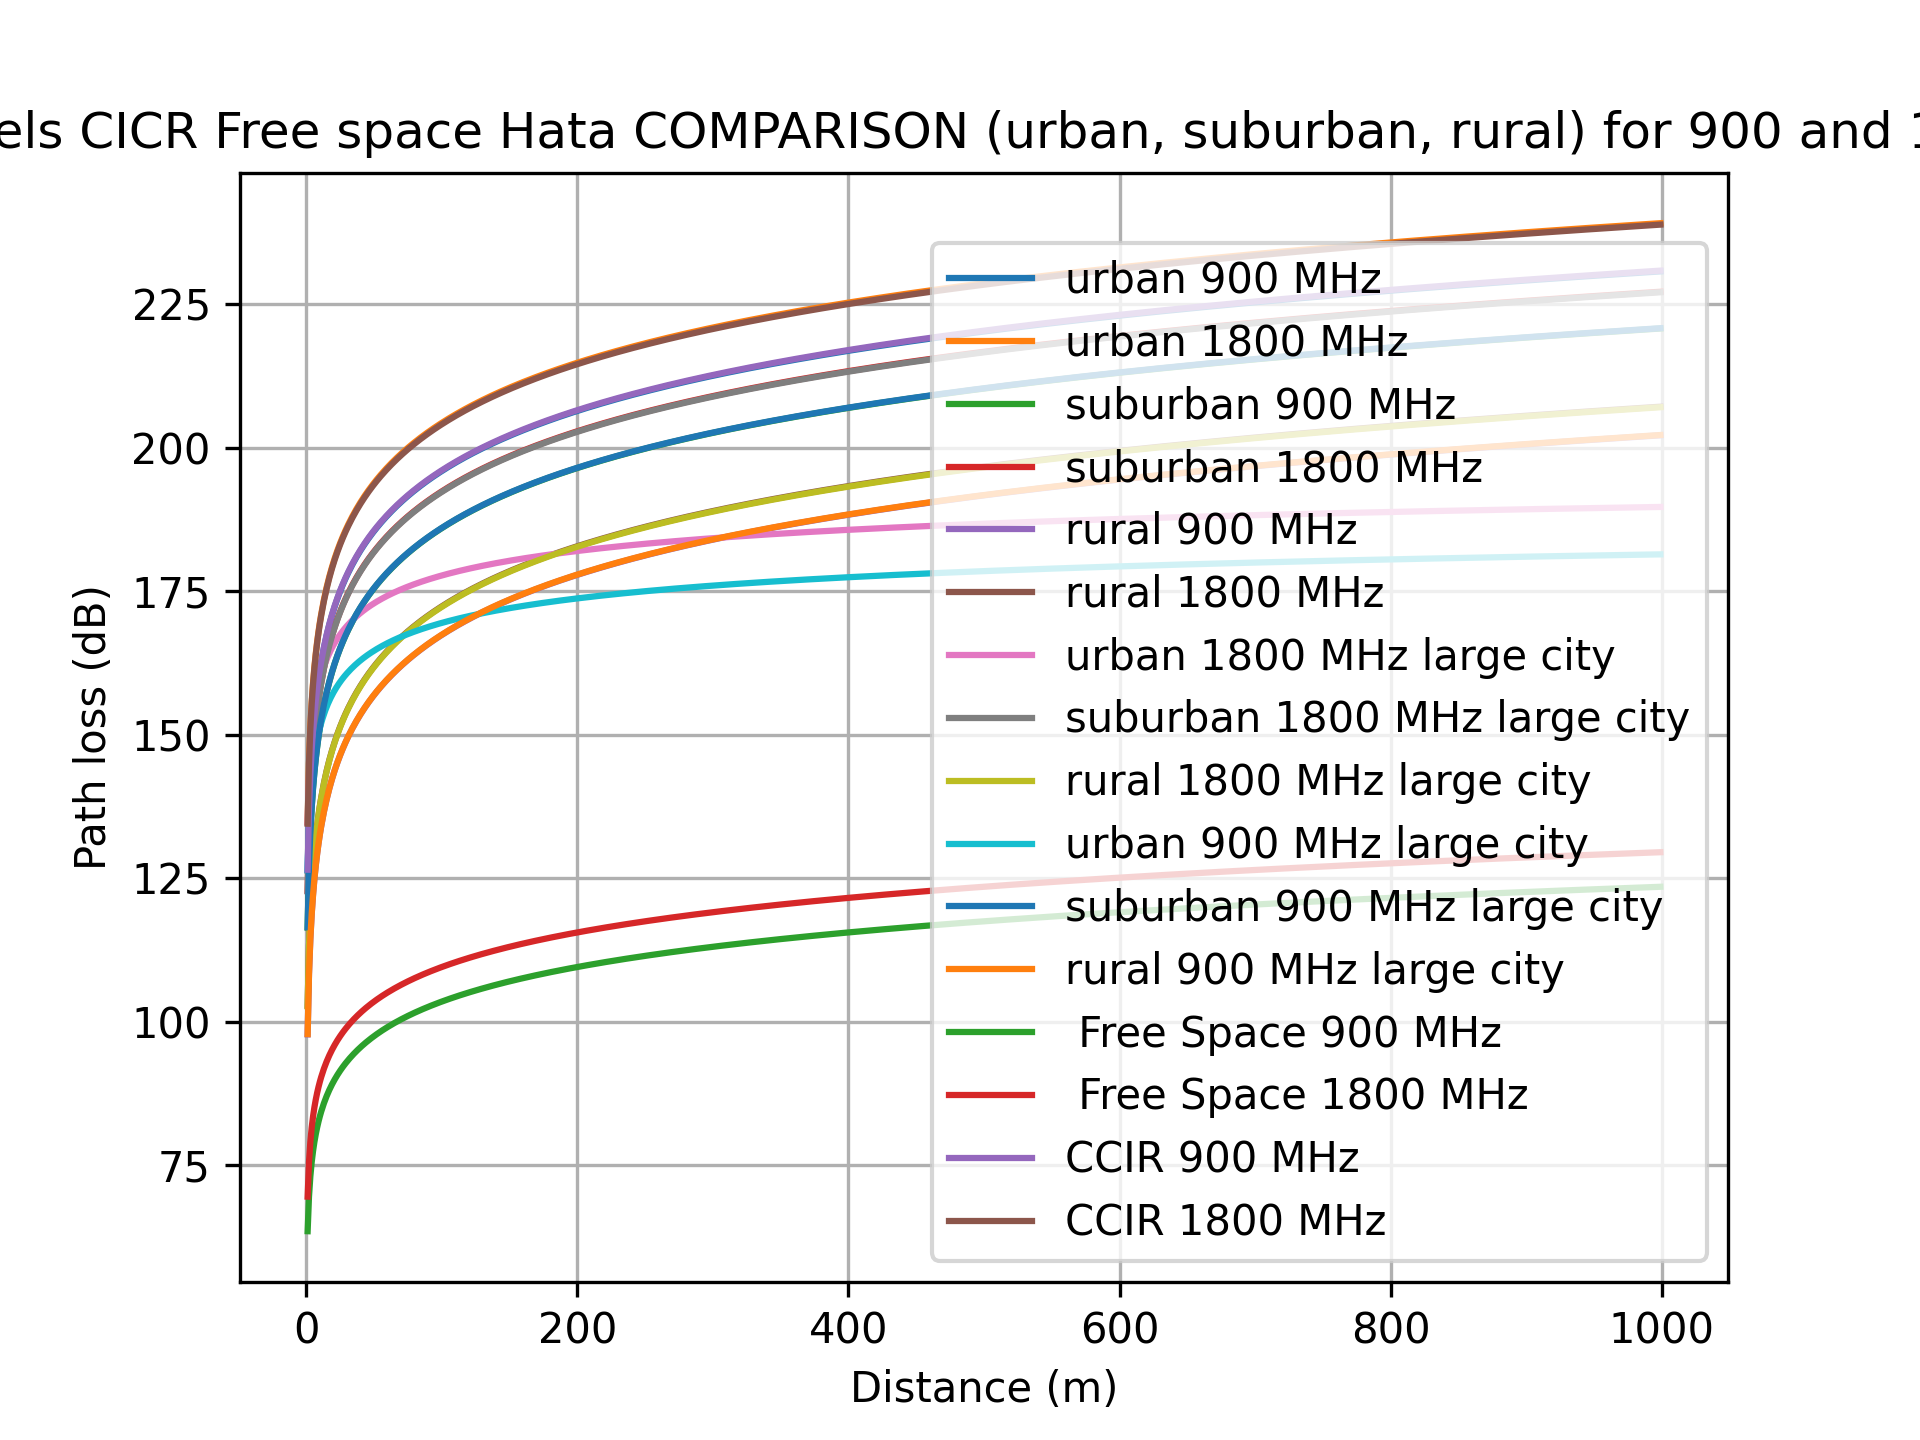
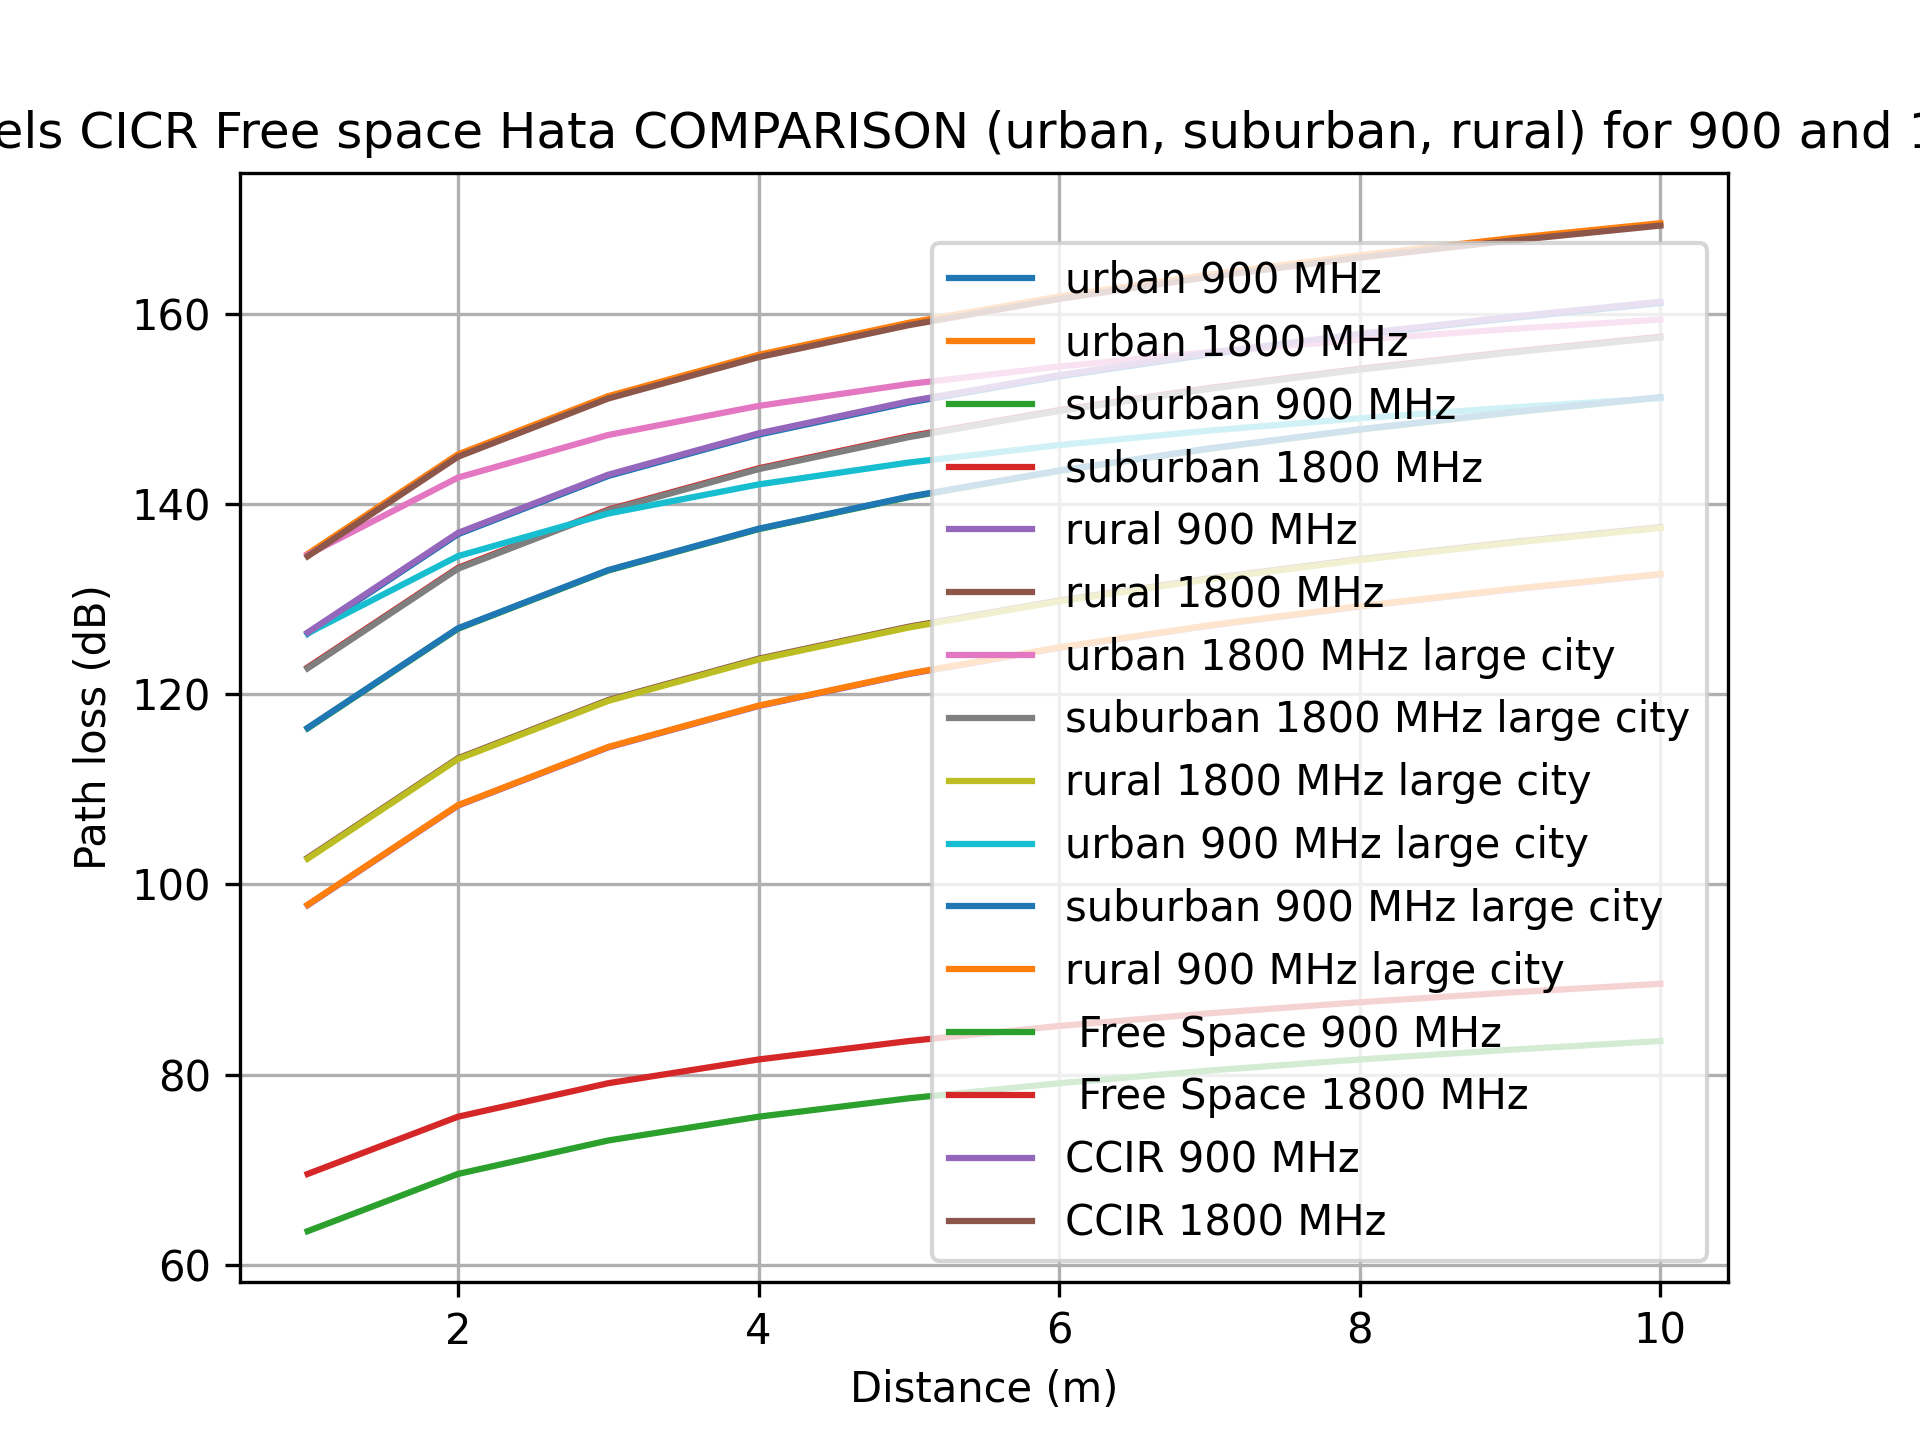
Everything working before class

diff --git a/lab2/lab2.py b/lab2/lab2.py
@@ -2,7 +2,7 @@ import numpy as np
 import matplotlib.pyplot as plt
 
 
-d = np.arange(1, 1000, 1)
+d = np.arange(1, 11, 1)
 f = [900, 1800]
 Gt = 28
 hm = 1
@@ -98,158 +98,181 @@ def plot_default(title, x_label='Distance (m)', y_label='Path loss (dB)'):
     plt.grid(True)
 
 
-CCIR_path_loss_1 = CCIR_path_loss(d, f[0], 0.25, 35, 1)
-CCIR_path_loss_2 = CCIR_path_loss(d, f[1], 0.25, 35, 1)
-path_loss = free_space_path_loss(d, f[0], Gt)
-path_loss_2 = free_space_path_loss(d, f[1], Gt)
+def free_space_received_power(transmitted_power, distance, frequency, tx_antenna_gain=1, rx_antenna_gain=1):
+    """
+    Calculates the received power at a receiver given the transmitted power, distance, path loss, wavelength,
+    and antenna gains.
+
+    Args:
+    transmitted_power (float): Transmitted power in watts.
+    distance (float): Distance in meters between transmitter and receiver.
+    path_loss (float): Path loss in dB.
+    wavelength (float): Wavelength in meters of the radio signal.
+    tx_antenna_gain (float): Gain of the transmitting antenna.
+    rx_antenna_gain (float): Gain of the receiving antenna.
+
+    Returns:
+    float: Received power in watts.
+    """
+    c=3e8
+    Lambda_ = c/frequency 
+    numerator = transmitted_power * tx_antenna_gain * rx_antenna_gain(Lambda_/ (4 * np.pi * distance))**2
+    return numerator
+
+# free_space_received_power(39,d,900e6,14,14)
+
+CCIR_path_loss_1=CCIR_path_loss(d, f[0], 0.25, 35, 1)
+CCIR_path_loss_2=CCIR_path_loss(d, f[1], 0.25, 35, 1)
+path_loss=free_space_path_loss(d, f[0], Gt)
+path_loss_2=free_space_path_loss(d, f[1], Gt)
 
 
-fig1 = plt.figure(1)
-plt.plot(d, path_loss, label='900 MHz')
+fig1=plt.figure(1)
+plt.plot(d, path_loss, label = '900 MHz')
 plot_default("free_space_path_loss")
 
 
-fig2 = plt.figure(2)
-plt.plot(d, path_loss_2, 'r', label='1800 MHz')
+fig2=plt.figure(2)
+plt.plot(d, path_loss_2, 'r', label = '1800 MHz')
 plot_default("free_space_path_loss")
 
 
-fig3 = plt.figure(3)
-plt.plot(d, path_loss, label='900 MHz')
-plt.plot(d, path_loss_2, 'r', label='1800 MHz')
+fig3=plt.figure(3)
+plt.plot(d, path_loss, label = '900 MHz')
+plt.plot(d, path_loss_2, 'r', label = '1800 MHz')
 plot_default("free_space_path_loss")
 
 
-fig4 = plt.figure(4)
-plt.plot(d, CCIR_path_loss_2, 'r', label='1800 MHz')
+fig4=plt.figure(4)
+plt.plot(d, CCIR_path_loss_2, 'r', label = '1800 MHz')
 plot_default("CCIR_path_loss")
 
 
-fig5 = plt.figure(5)
-plt.plot(d, CCIR_path_loss_1, label='900 MHz')
-plt.plot(d, CCIR_path_loss_2, 'r', label='1800 MHz')
+fig5=plt.figure(5)
+plt.plot(d, CCIR_path_loss_1, label = '900 MHz')
+plt.plot(d, CCIR_path_loss_2, 'r', label = '1800 MHz')
 plot_default("CCIR_path_loss")
 
 
-fig6 = plt.figure(6)
+fig6=plt.figure(6)
 plt.plot(d, Hata_Model_urban(
-    f[0], 35, Hata_Model_medium_city_correction_factor(900, hm), d), label='900 MHz')
+    f[0], 35, Hata_Model_medium_city_correction_factor(900, hm), d), label = '900 MHz')
 plt.plot(d, Hata_Model_urban(f[1], 35, Hata_Model_medium_city_correction_factor(
-    1800, hm), d), 'r', label='1800 MHz')
+    1800, hm), d), 'r', label = '1800 MHz')
 plot_default("Hata Model urban medium city")
 
 
-fig7 = plt.figure(7)
+fig7=plt.figure(7)
 plt.plot(d, Hata_Model_urban(
-    f[0], 35, Hata_Model_large_city_corection_factor(900, d), d), label='900 MHz')
+    f[0], 35, Hata_Model_large_city_corection_factor(900, d), d), label = '900 MHz')
 plt.plot(d, Hata_Model_urban(f[1], 35, Hata_Model_large_city_corection_factor(
-    1800, d), d, 3), 'r', label='1800 MHz')
+    1800, d), d, 3), 'r', label = '1800 MHz')
 plot_default("Hata Model urban Metroploitan city")
 
 
-fig8 = plt.figure(8)
+fig8=plt.figure(8)
 plt.plot(d, Hata_Model_suburban(
-    f[0], 35, Hata_Model_medium_city_correction_factor(900, hm), d), label='900 MHz')
+    f[0], 35, Hata_Model_medium_city_correction_factor(900, hm), d), label = '900 MHz')
 plt.plot(d, Hata_Model_suburban(f[1], 35, Hata_Model_medium_city_correction_factor(
-    1800, hm), d), 'r', label='1800 MHz')
+    1800, hm), d), 'r', label = '1800 MHz')
 plot_default("Hata Model suburban medium city")
 
 
-fig9 = plt.figure(9)
+fig9=plt.figure(9)
 plt.plot(d, Hata_Model_suburban(
-    f[0], 35, Hata_Model_large_city_corection_factor(900, hm), d), label='900 MHz')
+    f[0], 35, Hata_Model_large_city_corection_factor(900, hm), d), label = '900 MHz')
 plt.plot(d, Hata_Model_suburban(f[1], 35, Hata_Model_large_city_corection_factor(
-    1800, hm), d), 'r', label='1800 MHz')
+    1800, hm), d), 'r', label = '1800 MHz')
 plot_default("Hata Model suburban Metroplotian city")
 
 
-fig10 = plt.figure(10)
+fig10=plt.figure(10)
 plt.plot(d, Hata_Model_rural(
-    f[0], 35, Hata_Model_medium_city_correction_factor(900, hm), d), label='900 MHz')
+    f[0], 35, Hata_Model_medium_city_correction_factor(900, hm), d), label = '900 MHz')
 plt.plot(d, Hata_Model_rural(f[1], 35, Hata_Model_medium_city_correction_factor(
-    1800, hm), d), 'r', label='1800 MHz')
+    1800, hm), d), 'r', label = '1800 MHz')
 plot_default("Hata Model rural medium city")
 
 
-fig11 = plt.figure(11)
+fig11=plt.figure(11)
 plt.plot(d, Hata_Model_rural(
-    f[0], 35, Hata_Model_large_city_corection_factor(900, hm), d), label='900 MHz')
+    f[0], 35, Hata_Model_large_city_corection_factor(900, hm), d), label = '900 MHz')
 plt.plot(d, Hata_Model_rural(f[1], 35, Hata_Model_large_city_corection_factor(
-    1800, hm), d, 3),  label='1800 MHz')
+    1800, hm), d, 3),  label = '1800 MHz')
 plot_default("Hata Model rural Metroplotian city")
 
-fig12 = plt.figure(12)
+fig12=plt.figure(12)
 # plot all hata models for urban, suburban and rural and compare them with both frequencies
 plt.plot(d, Hata_Model_urban(f[0], 35, Hata_Model_medium_city_correction_factor(
-    900, hm), d), label='urban 900 MHz')
+    900, hm), d), label = 'urban 900 MHz')
 plt.plot(d, Hata_Model_urban(f[1], 35, Hata_Model_medium_city_correction_factor(
-    1800, hm), d),  label='urban 1800 MHz')
+    1800, hm), d),  label = 'urban 1800 MHz')
 plt.plot(d, Hata_Model_suburban(f[0], 35, Hata_Model_medium_city_correction_factor(
-    900, hm), d), label='suburban 900 MHz')
+    900, hm), d), label = 'suburban 900 MHz')
 plt.plot(d, Hata_Model_suburban(f[1], 35, Hata_Model_medium_city_correction_factor(
-    1800, hm), d),  label='suburban 1800 MHz')
+    1800, hm), d),  label = 'suburban 1800 MHz')
 plt.plot(d, Hata_Model_rural(f[0], 35, Hata_Model_medium_city_correction_factor(
-    900, hm), d), label='rural 900 MHz')
+    900, hm), d), label = 'rural 900 MHz')
 plt.plot(d, Hata_Model_rural(f[1], 35, Hata_Model_medium_city_correction_factor(
-    1800, hm), d),  label='rural 1800 MHz')
+    1800, hm), d),  label = 'rural 1800 MHz')
 # do large city correction for 1800 MHz
 plt.plot(d, Hata_Model_urban(f[1], 35, Hata_Model_large_city_corection_factor(
-    1800, d), d, 3),  label='urban 1800 MHz large city')
+    1800, d), d, 3),  label = 'urban 1800 MHz large city')
 plt.plot(d, Hata_Model_suburban(f[1], 35, Hata_Model_large_city_corection_factor(
-    1800, hm), d),  label='suburban 1800 MHz large city')
+    1800, hm), d),  label = 'suburban 1800 MHz large city')
 plt.plot(d, Hata_Model_rural(f[1], 35, Hata_Model_large_city_corection_factor(
-    1800, hm), d, 3),  label='rural 1800 MHz large city')
+    1800, hm), d, 3),  label = 'rural 1800 MHz large city')
 # do large city correction for 900 MHz
 plt.plot(d, Hata_Model_urban(f[0], 35, Hata_Model_large_city_corection_factor(
-    900, d), d),  label='urban 900 MHz large city')
+    900, d), d),  label = 'urban 900 MHz large city')
 plt.plot(d, Hata_Model_suburban(f[0], 35, Hata_Model_large_city_corection_factor(
-    900, hm), d),  label='suburban 900 MHz large city')
+    900, hm), d),  label = 'suburban 900 MHz large city')
 plt.plot(d, Hata_Model_rural(f[0], 35, Hata_Model_large_city_corection_factor(
-    900, hm), d),  label='rural 900 MHz large city')
+    900, hm), d),  label = 'rural 900 MHz large city')
 
 
 plot_default(
     "All Hata Models COMPARISON (urban, suburban, rural) for 900 and 1800 MHz")
 
-fig12 = plt.figure(13)
+fig12=plt.figure(13)
 plt.plot(d, Hata_Model_urban(f[0], 35, Hata_Model_medium_city_correction_factor(
-    900, hm), d), label='urban 900 MHz')
+    900, hm), d), label = 'urban 900 MHz')
 plt.plot(d, Hata_Model_urban(f[1], 35, Hata_Model_medium_city_correction_factor(
-    1800, hm), d),  label='urban 1800 MHz')
+    1800, hm), d),  label = 'urban 1800 MHz')
 plt.plot(d, Hata_Model_suburban(f[0], 35, Hata_Model_medium_city_correction_factor(
-    900, hm), d), label='suburban 900 MHz')
+    900, hm), d), label = 'suburban 900 MHz')
 plt.plot(d, Hata_Model_suburban(f[1], 35, Hata_Model_medium_city_correction_factor(
-    1800, hm), d),  label='suburban 1800 MHz')
+    1800, hm), d),  label = 'suburban 1800 MHz')
 plt.plot(d, Hata_Model_rural(f[0], 35, Hata_Model_medium_city_correction_factor(
-    900, hm), d), label='rural 900 MHz')
+    900, hm), d), label = 'rural 900 MHz')
 plt.plot(d, Hata_Model_rural(f[1], 35, Hata_Model_medium_city_correction_factor(
-    1800, hm), d),  label='rural 1800 MHz')
+    1800, hm), d),  label = 'rural 1800 MHz')
 # do large city correction for 1800 MHz
 plt.plot(d, Hata_Model_urban(f[1], 35, Hata_Model_large_city_corection_factor(
-    1800, d), d, 3),  label='urban 1800 MHz large city')
+    1800, d), d, 3),  label = 'urban 1800 MHz large city')
 plt.plot(d, Hata_Model_suburban(f[1], 35, Hata_Model_large_city_corection_factor(
-    1800, hm), d),  label='suburban 1800 MHz large city')
+    1800, hm), d),  label = 'suburban 1800 MHz large city')
 plt.plot(d, Hata_Model_rural(f[1], 35, Hata_Model_large_city_corection_factor(
-    1800, hm), d, 3),  label='rural 1800 MHz large city')
+    1800, hm), d, 3),  label = 'rural 1800 MHz large city')
 # do large city correction for 900 MHz
 plt.plot(d, Hata_Model_urban(f[0], 35, Hata_Model_large_city_corection_factor(
-    900, d), d),  label='urban 900 MHz large city')
+    900, d), d),  label = 'urban 900 MHz large city')
 plt.plot(d, Hata_Model_suburban(f[0], 35, Hata_Model_large_city_corection_factor(
-    900, hm), d),  label='suburban 900 MHz large city')
+    900, hm), d),  label = 'suburban 900 MHz large city')
 plt.plot(d, Hata_Model_rural(f[0], 35, Hata_Model_large_city_corection_factor(
-    900, hm), d),  label='rural 900 MHz large city')
-plt.plot(d, path_loss, label=' Free Space 900 MHz')
-plt.plot(d, path_loss_2,  label=' Free Space 1800 MHz')
-plt.plot(d, CCIR_path_loss_1, label='CCIR 900 MHz')
-plt.plot(d, CCIR_path_loss_2, label='CCIR 1800 MHz')
+    900, hm), d),  label = 'rural 900 MHz large city')
+plt.plot(d, path_loss, label = ' Free Space 900 MHz')
+plt.plot(d, path_loss_2,  label = ' Free Space 1800 MHz')
+plt.plot(d, CCIR_path_loss_1, label = 'CCIR 900 MHz')
+plt.plot(d, CCIR_path_loss_2, label = 'CCIR 1800 MHz')
 
 
 plot_default(
     "All Models CICR Free space Hata COMPARISON (urban, suburban, rural) for 900 and 1800 MHz")
 
-save_path = r'E:\OneDrive - University of Bahrain\Documents\UNI\ITCE450\Lab\lab2\figures'
+save_path=r'E:\OneDrive - University of Bahrain\Documents\UNI\ITCE450\Lab\lab2\figures'
 for i in range(1, 14):
-    fig = plt.figure(i)
-    fig.savefig(save_path + r'\figure' + str(i) + '.png', dpi=300)
+    fig=plt.figure(i)
+    fig.savefig(save_path + r'\figure' + str(i) + '.png', dpi = 300)
 
 plt.show()
